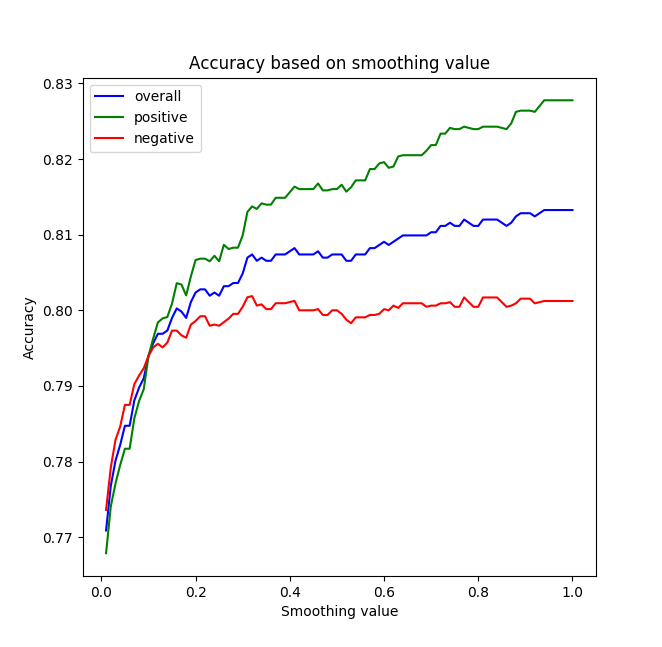
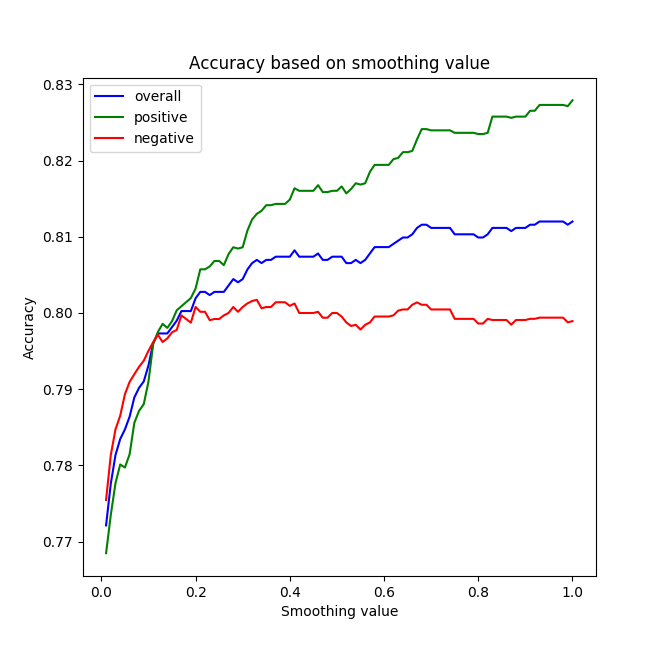
fixed smoothing multiplier

diff --git a/main.py b/main.py
@@ -58,8 +58,8 @@ def score_doc_label(document, smoothing=0.5):
     negProb = np.log10(NEG_TOTAL_WORD / TOTAL_WORD_SUM)
     posProb = np.log10(POS_TOTAL_WORD / TOTAL_WORD_SUM)
 
-    smoothNegTotal = NEG_TOTAL_WORD + 0.5 * (len(NEG_WORD_COUNT))
-    smoothPosTotal = POS_TOTAL_WORD + 0.5 * (len(POS_WORD_COUNT))
+    smoothNegTotal = NEG_TOTAL_WORD + smoothing * (len(NEG_WORD_COUNT))
+    smoothPosTotal = POS_TOTAL_WORD + smoothing * (len(POS_WORD_COUNT))
 
     for word in document:
         negProb += np.log10((NEG_WORD_COUNT[word] + smoothing) / smoothNegTotal)
@@ -154,7 +154,7 @@ smoothing_values = {}
 
 # while(smoothing_old < 1):
 #     smoothing_new = smoothing_old + 0.01
-#     eval_acc_new,new_pos,new_neg = compute_accuracy(classify_documents(eval_docs, smoothing = smoothing_new),eval_labels)
+#     eval_acc_new, new_pos, new_neg, err_index = compute_accuracy(classify_documents(eval_docs, smoothing = smoothing_new),eval_labels)
 #     eval_acc_old = eval_acc_new
 #     smoothing_old = smoothing_new
 #     smoothing_values[(smoothing_new)] = eval_acc_new
@@ -162,4 +162,4 @@ smoothing_values = {}
 #     print("\toverall \t" + str(eval_acc_new))
 #     print("\tpos \t\t" + str(new_pos))
 #     print("\tneg \t\t" + str(new_neg))
-#     print('Smoothing' + str(smoothing_new) + ": " + str(eval_acc_new) + ': ' + str(new_pos) + ': '+ str(new_neg))
+#     print('Smoothing ' + str(smoothing_new) + ": " + str(eval_acc_new) + ': ' + str(new_pos) + ': '+ str(new_neg), file=open('data.txt','a'))
